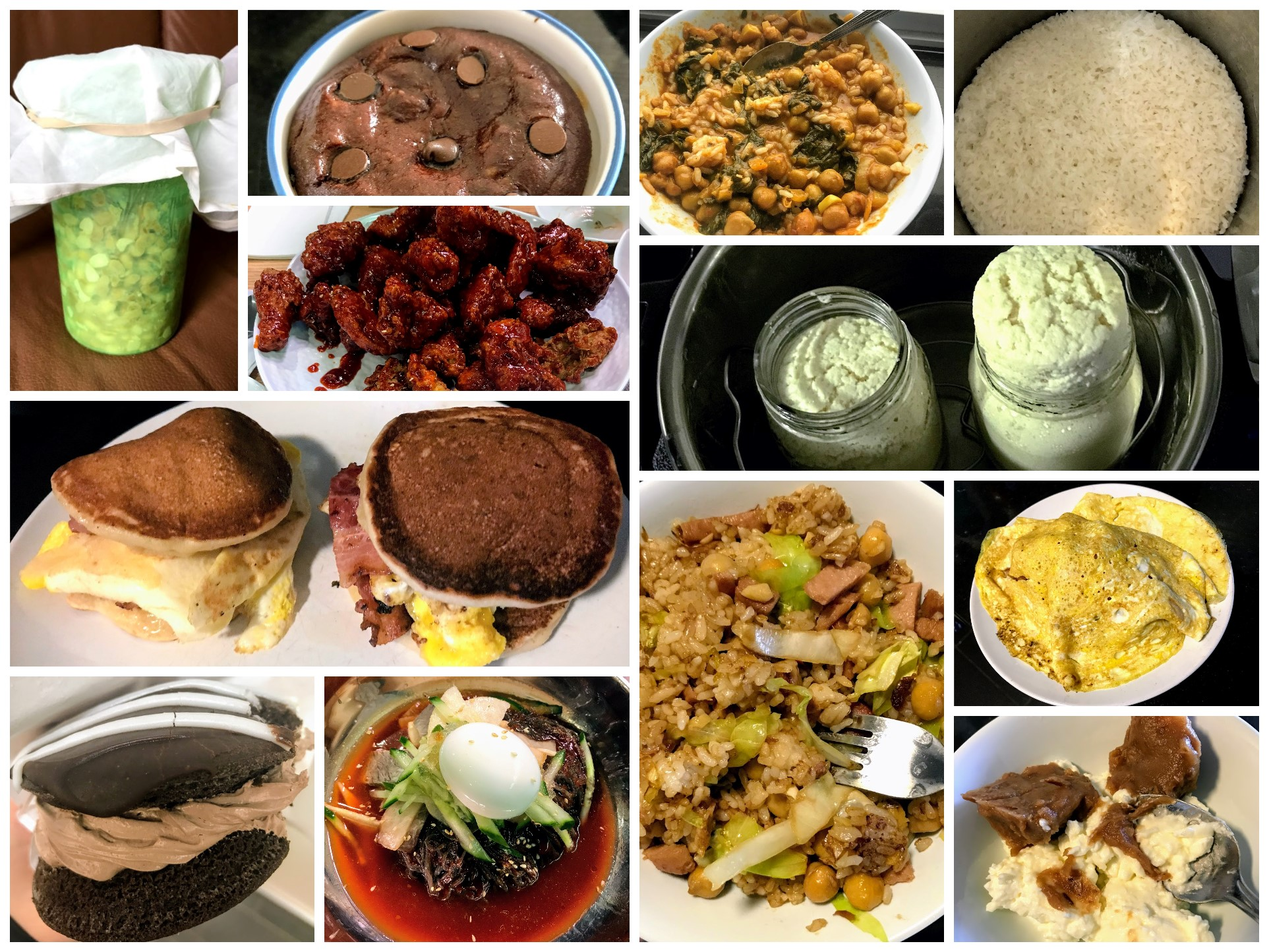
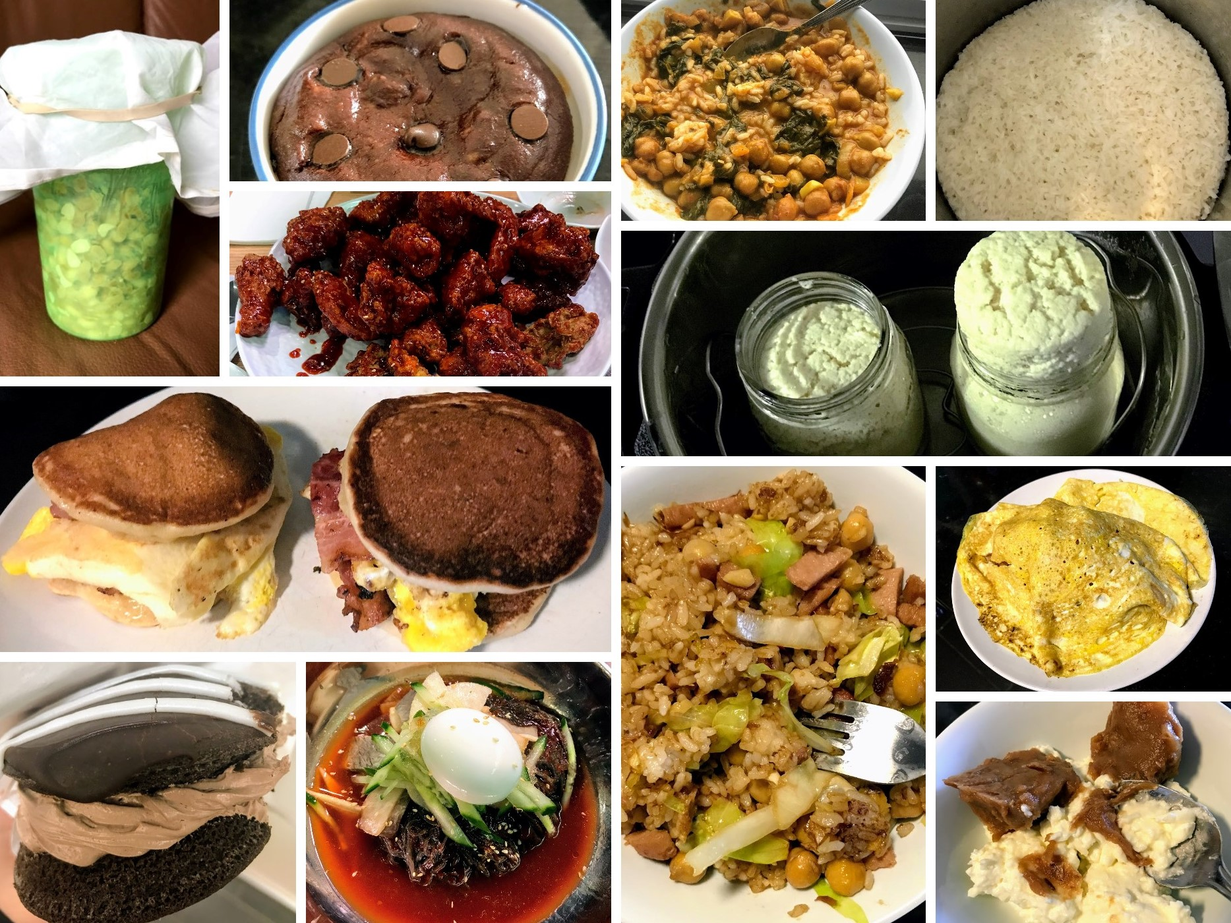
s

diff --git a/foodventures/_posts/2019-06-02-what-i-ate-busy-but-healthy.md b/foodventures/_posts/2019-06-02-what-i-ate-busy-but-healthy.md
@@ -14,7 +14,7 @@ keywords:
  - korean restaurant
  - korean fried chicken
 excerpt: "I'm happy to say I didn't generate any food waste this week. I'm getting better at fully using up the things in my fridge, and it's probably because cooking for two people is easier than for one, even if I have to make separate meals a lot of the time."
-img: /food/foodventures/images/jun-6-2019.jpeg
+img: /food/foodventures/images/jun-6-2019.jpg
 comments: "0"
 
 discussion_id: 2019-06-02
